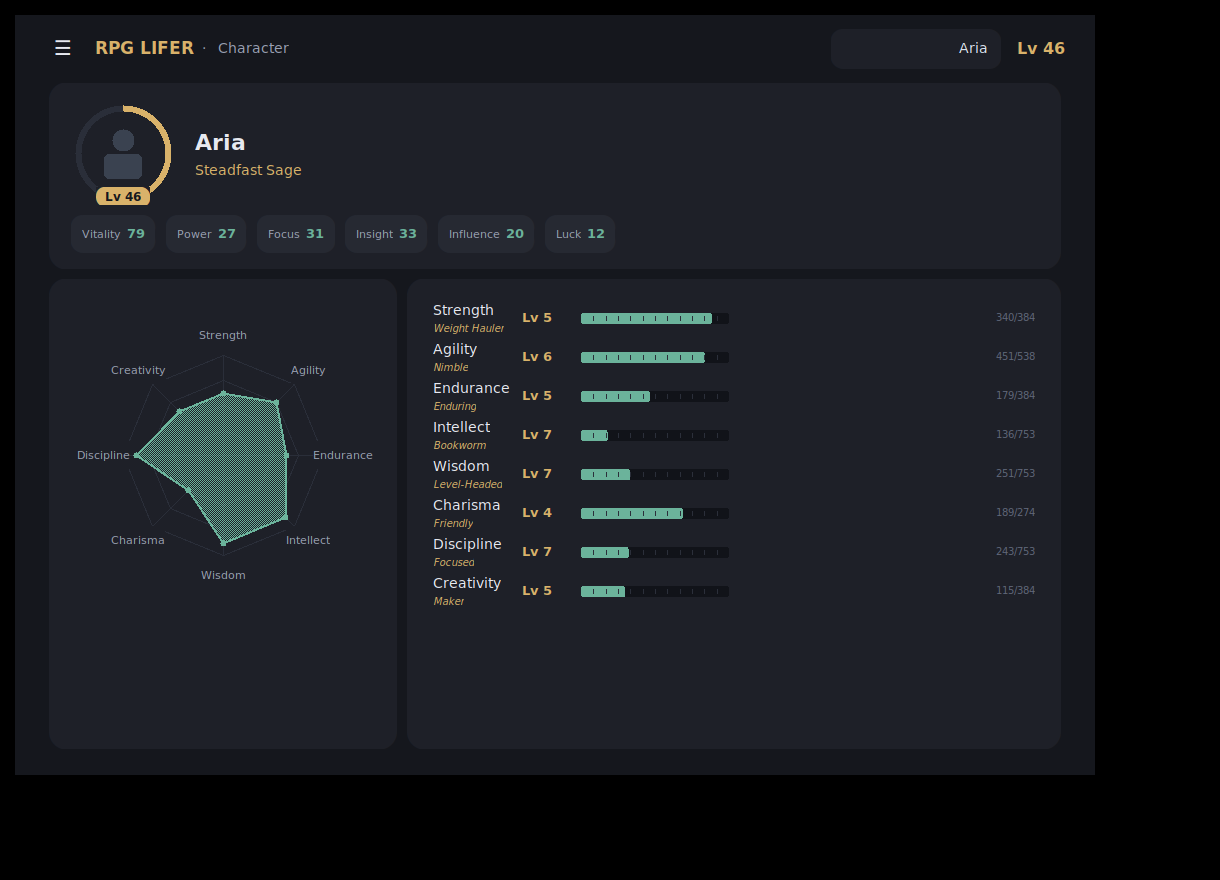
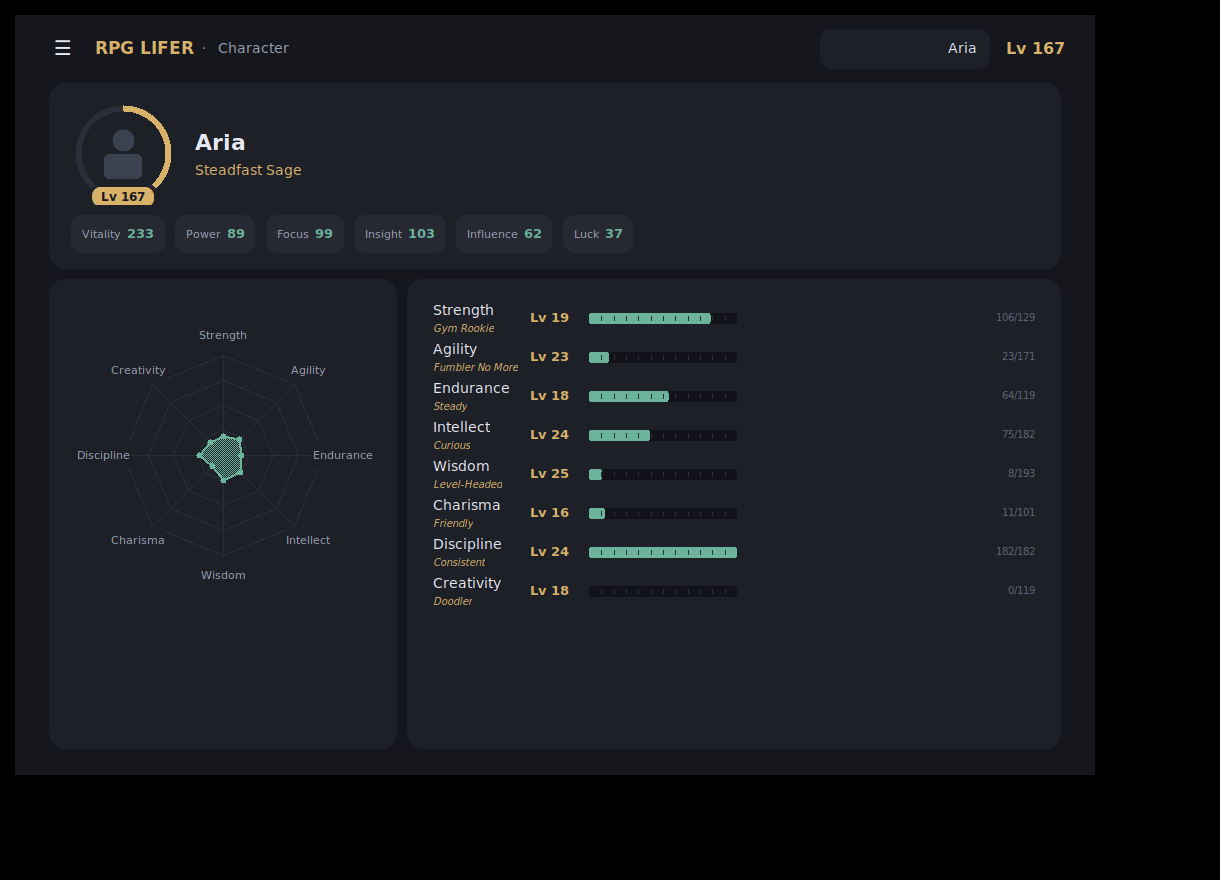
Iteration 6: retention-first 1–100 mastery curve (front-loaded progress)
Replace the open-ended exponential curve (where level 100 was ~1.7 trillion
years and the bar barely moved) with a capped, front-loaded 0–100 mastery curve:

    level = 100 * (xp / XP_TO_MAX) ** 0.40   (clamped to 100)

- Fast, visible early progress: at 30 min/day of one stat you hit ~6 on day one,
  ~13 in a week, ~26 in a month, ~58 by 6 months, ~78 in a year; 100 is a real
  multi-year goal for a single focused pursuit. XP_TO_MAX is the one knob for
  how long mastery takes (default ~500 h at 2 XP/min).
- Two-tier progression: stats are 0–100 mastery bars; the overall level is their
  sum (0–800) and climbs with EVERY activity, so a number is always going up.
- Radar now normalizes to 100, so the character web visibly fills toward mastery.
- Titles re-spaced to the 0–100 scale (10/25/40/55/75/100): first rank in week
  one, top rank at mastery.
- New characters start at level 0 (a blank-slate hero) rather than 1.

Tests updated for the new curve/titles/zero-start; 71 passing. README pacing
section rewritten with the real 30-min/day progression table. Frozen build
re-validated.

Claude-Session: https://claude.ai/code/session_01WsnuZ536J4UZdP5AajkuAF

diff --git a/rpglifer/leveling.py b/rpglifer/leveling.py
@@ -1,74 +1,78 @@
-"""XP-and-level math.
+"""XP-and-level math — a capped 1–100 mastery curve.
 
-Every stat accumulates experience points (XP). A stat's *level* is derived
-purely from its total XP through a growth curve: early levels come quickly and
-each successive level costs a little more — the classic RPG feel.
+Each stat runs from 0 to 100, where 100 is mastery. The curve is deliberately
+**front-loaded**: your first session is worth several levels and the bar moves
+every time you log, then the climb slows as you approach mastery. That keeps
+progress visible (the retention that an ever-slowing exponential kills) while
+still making 100 a real, multi-month-to-year goal for a single focused stat.
 
-Everything here is a pure function of the inputs (no hidden state), so it is
-easy to test and safe to call from anywhere.
+    level(xp) = 100 * (xp / XP_TO_MAX) ** EXPONENT      (clamped to 100)
+
+``EXPONENT < 1`` makes the curve concave — fast early, long tail. ``XP_TO_MAX``
+is the only knob for "how much total effort is mastery"; with the default
+2 XP/minute that is ~500 hours of a weight-1.0 activity.
+
+Stats cap at 100, but the character's *overall* level (the sum of all eight,
+0–800) has no practical ceiling, so there is always a number going up.
 """
 
 from __future__ import annotations
 
 from dataclasses import dataclass
 
-# --- Curve tuning ----------------------------------------------------------
-# BASE_XP is the cost of the very first level-up (level 1 -> 2). Each further
-# level costs GROWTH times the one before it. Bump BASE_XP up to make the whole
-# game slower; raise GROWTH to make high levels grind harder.
-#
-# Pacing goal: leveling a single stat should take *multiple weeks* of genuine
-# dedication, not a week. With the default 2 XP/minute (see activities.py), the
-# cumulative cost to reach a stat level is roughly:
-#     Lv 3  ~= 240 XP   (~2 hours of the activity)   — a first title, early on
-#     Lv 5  ~= 710 XP   (~6 hours)                    — a couple of weeks
-#     Lv 10 ~= 4,900 XP (~41 hours)                   — a couple of months
-#     Lv 20 ~= 149,000 XP                             — a long-haul grind
-# The first level-up stays quick (100 XP ~ 50 min) so day one still feels good.
-BASE_XP = 100
-GROWTH = 1.4
-# Hard ceiling so a corrupted save can never spin the loop forever.
-MAX_LEVEL = 999
+MAX_LEVEL = 100
+# Total XP (for a weight-1.0 activity) to reach level 100. At 2 XP/min that is
+# ~500 hours of focused practice. Raise it to make mastery slower, lower to make
+# it faster — nothing else needs to change.
+XP_TO_MAX = 60_000
+# Curve shape. Smaller = more front-loaded (faster early levels, longer tail).
+EXPONENT = 0.40
+
+
+def _cum_xp(level: int) -> float:
+    """Total XP required to reach an integer ``level`` (0..MAX_LEVEL)."""
+    if level <= 0:
+        return 0.0
+    if level >= MAX_LEVEL:
+        return float(XP_TO_MAX)
+    return XP_TO_MAX * (level / MAX_LEVEL) ** (1.0 / EXPONENT)
 
 
 def xp_to_advance(level: int) -> int:
-    """XP required to advance *from* ``level`` to ``level + 1`` (``level >= 1``)."""
-    if level < 1:
-        raise ValueError("level must be >= 1")
-    return int(round(BASE_XP * (GROWTH ** (level - 1))))
+    """XP required to go from ``level`` to ``level + 1`` (0 at the cap)."""
+    if level < 0:
+        raise ValueError("level must be >= 0")
+    if level >= MAX_LEVEL:
+        return 0
+    return int(round(_cum_xp(level + 1) - _cum_xp(level)))
 
 
 @dataclass(frozen=True)
 class LevelProgress:
-    """A snapshot of where a given XP total lands on the curve."""
-
     level: int
-    xp_into_level: int  # XP earned toward the next level
-    xp_for_level: int  # total XP the current level costs
+    xp_into_level: int
+    xp_for_level: int
     total_xp: int
 
     @property
     def fraction(self) -> float:
-        """Progress through the current level in the range ``[0.0, 1.0]``."""
         if self.xp_for_level <= 0:
-            return 0.0
+            return 1.0 if self.level >= MAX_LEVEL else 0.0
         return max(0.0, min(1.0, self.xp_into_level / self.xp_for_level))
 
 
 def level_for_xp(total_xp: float) -> LevelProgress:
-    """Resolve a total XP amount into a level and progress toward the next one."""
+    """Resolve total XP into a 0–100 level and progress toward the next one."""
     total = int(max(0, round(total_xp)))
-    remaining = total
-    level = 1
-    while level < MAX_LEVEL:
-        need = xp_to_advance(level)
-        if remaining < need:
-            return LevelProgress(level, remaining, need, total)
-        remaining -= need
-        level += 1
-    return LevelProgress(MAX_LEVEL, 0, xp_to_advance(MAX_LEVEL), total)
+    if total >= XP_TO_MAX:
+        return LevelProgress(MAX_LEVEL, 1, 1, total)  # maxed: show a full bar
+    level = int(MAX_LEVEL * (total / XP_TO_MAX) ** EXPONENT)
+    level = max(0, min(level, MAX_LEVEL - 1))
+    lo = _cum_xp(level)
+    hi = _cum_xp(level + 1)
+    return LevelProgress(level, int(round(total - lo)),
+                         max(1, int(round(hi - lo))), total)
 
 
 def level_of(total_xp: float) -> int:
-    """Convenience: just the integer level for a total XP amount."""
     return level_for_xp(total_xp).level

diff --git a/rpglifer/titles.py b/rpglifer/titles.py
@@ -12,24 +12,25 @@ week or two; later rungs are spaced out to reward the long haul.
 
 from __future__ import annotations
 
-# stat key -> ascending ladder of (level, title). Keep each ladder sorted.
+# stat key -> ascending ladder of (level, title) on the 0–100 scale. The first
+# rung (10) lands in the first week; the last (100) is mastery. Keep sorted.
 TITLES: dict[str, tuple[tuple[int, str], ...]] = {
-    "STR": ((3, "Gym Rookie"), (5, "Weight Hauler"), (10, "Iron-Willed"),
-            (15, "Powerhouse"), (20, "Titan"), (30, "Colossus")),
-    "DEX": ((3, "Fumbler No More"), (5, "Nimble"), (10, "Quick-Handed"),
-            (15, "Acrobat"), (20, "Blur"), (30, "Untouchable")),
-    "CON": ((3, "Steady"), (5, "Enduring"), (10, "Tireless"),
-            (15, "Ironclad"), (20, "Unbreakable"), (30, "Immortal")),
-    "INT": ((3, "Curious"), (5, "Bookworm"), (10, "Scholar"),
-            (15, "Sage"), (20, "Genius"), (30, "Polymath")),
-    "WIS": ((3, "Reflective"), (5, "Level-Headed"), (10, "Insightful"),
-            (15, "Enlightened"), (20, "Guru"), (30, "Oracle")),
-    "CHA": ((3, "Friendly"), (5, "Well-Liked"), (10, "Charmer"),
-            (15, "Silver-Tongued"), (20, "Magnetic"), (30, "Legendary Presence")),
-    "DIS": ((3, "Consistent"), (5, "Focused"), (10, "Iron Habit"),
-            (15, "Unwavering"), (20, "Unstoppable"), (30, "Relentless")),
-    "CRE": ((3, "Doodler"), (5, "Maker"), (10, "Artisan"),
-            (15, "Visionary"), (20, "Virtuoso"), (30, "Muse")),
+    "STR": ((10, "Gym Rookie"), (25, "Weight Hauler"), (40, "Iron-Willed"),
+            (55, "Powerhouse"), (75, "Titan"), (100, "Colossus")),
+    "DEX": ((10, "Fumbler No More"), (25, "Nimble"), (40, "Quick-Handed"),
+            (55, "Acrobat"), (75, "Blur"), (100, "Untouchable")),
+    "CON": ((10, "Steady"), (25, "Enduring"), (40, "Tireless"),
+            (55, "Ironclad"), (75, "Unbreakable"), (100, "Immortal")),
+    "INT": ((10, "Curious"), (25, "Bookworm"), (40, "Scholar"),
+            (55, "Sage"), (75, "Genius"), (100, "Polymath")),
+    "WIS": ((10, "Reflective"), (25, "Level-Headed"), (40, "Insightful"),
+            (55, "Enlightened"), (75, "Guru"), (100, "Oracle")),
+    "CHA": ((10, "Friendly"), (25, "Well-Liked"), (40, "Charmer"),
+            (55, "Silver-Tongued"), (75, "Magnetic"), (100, "Legendary Presence")),
+    "DIS": ((10, "Consistent"), (25, "Focused"), (40, "Iron Habit"),
+            (55, "Unwavering"), (75, "Unstoppable"), (100, "Relentless")),
+    "CRE": ((10, "Doodler"), (25, "Maker"), (40, "Artisan"),
+            (55, "Visionary"), (75, "Virtuoso"), (100, "Muse")),
 }
 
 

diff --git a/tests/test_leveling.py b/tests/test_leveling.py
@@ -1,54 +1,56 @@
+import pytest
+
 from rpglifer import leveling
 
 
-def test_first_level_costs_base_xp():
-    assert leveling.xp_to_advance(1) == leveling.BASE_XP
-
-
-def test_costs_grow_each_level():
-    costs = [leveling.xp_to_advance(lvl) for lvl in range(1, 10)]
-    assert costs == sorted(costs)
-    assert costs[1] > costs[0]
-
-
-def test_zero_xp_is_level_one():
+def test_zero_xp_is_level_zero():
     p = leveling.level_for_xp(0)
-    assert p.level == 1
-    assert p.xp_into_level == 0
+    assert p.level == 0
     assert p.fraction == 0.0
 
 
-def test_just_below_threshold_stays_level_one():
-    p = leveling.level_for_xp(leveling.BASE_XP - 1)
-    assert p.level == 1
-    assert p.xp_into_level == leveling.BASE_XP - 1
+def test_curve_is_front_loaded_early():
+    # A single ~30-minute session (60 XP) should already grant several levels.
+    assert leveling.level_of(60) >= 4
 
 
-def test_exactly_threshold_reaches_level_two():
-    p = leveling.level_for_xp(leveling.BASE_XP)
-    assert p.level == 2
-    assert p.xp_into_level == 0
+def test_level_caps_at_100():
+    assert leveling.level_of(leveling.XP_TO_MAX) == 100
+    assert leveling.level_of(leveling.XP_TO_MAX * 5) == 100
 
 
-def test_fraction_is_bounded():
-    for xp in (0, 50, 100, 250, 1000, 100000):
-        assert 0.0 <= leveling.level_for_xp(xp).fraction <= 1.0
+def test_maxed_bar_is_full():
+    p = leveling.level_for_xp(leveling.XP_TO_MAX)
+    assert p.level == 100
+    assert p.fraction == 1.0
 
 
 def test_level_is_monotonic_in_xp():
-    last = 0
-    for xp in range(0, 20000, 137):
+    last = -1
+    for xp in range(0, leveling.XP_TO_MAX, 250):
         lvl = leveling.level_of(xp)
         assert lvl >= last
         last = lvl
 
 
-def test_negative_xp_clamps_to_level_one():
-    assert leveling.level_of(-500) == 1
+def test_costs_grow_with_level():
+    # Advancing costs more XP the higher you are (long tail).
+    assert leveling.xp_to_advance(80) > leveling.xp_to_advance(20) > leveling.xp_to_advance(2)
 
 
-def test_advance_rejects_bad_level():
-    import pytest
+def test_fraction_is_bounded():
+    for xp in (0, 50, 500, 5000, 60000, 500000):
+        assert 0.0 <= leveling.level_for_xp(xp).fraction <= 1.0
 
+
+def test_negative_xp_clamps_to_zero():
+    assert leveling.level_of(-500) == 0
+
+
+def test_advance_at_cap_is_zero():
+    assert leveling.xp_to_advance(100) == 0
+
+
+def test_advance_rejects_negative_level():
     with pytest.raises(ValueError):
-        leveling.xp_to_advance(0)
+        leveling.xp_to_advance(-1)

diff --git a/tests/test_titles.py b/tests/test_titles.py
@@ -15,22 +15,23 @@ def test_ladders_are_sorted_ascending():
 
 def test_no_title_below_first_milestone():
     assert title_for("STR", 1) is None
-    assert title_for("STR", 2) is None
+    assert title_for("STR", 9) is None
 
 
 def test_title_at_and_above_milestone():
-    assert title_for("STR", 3) == "Gym Rookie"
-    assert title_for("STR", 4) == "Gym Rookie"  # holds until the next rung
-    assert title_for("STR", 5) == "Weight Hauler"
+    assert title_for("STR", 10) == "Gym Rookie"
+    assert title_for("STR", 24) == "Gym Rookie"  # holds until the next rung
+    assert title_for("STR", 25) == "Weight Hauler"
 
 
 def test_title_caps_at_top_rung():
+    assert title_for("STR", 100) == "Colossus"
     assert title_for("STR", 999) == "Colossus"
 
 
 def test_next_title_points_forward():
-    assert next_title("INT", 1) == (3, "Curious")
-    assert next_title("INT", 3) == (5, "Bookworm")
+    assert next_title("INT", 1) == (10, "Curious")
+    assert next_title("INT", 10) == (25, "Bookworm")
 
 
 def test_next_title_none_when_maxed():

diff --git a/tests/test_progression.py b/tests/test_progression.py
@@ -88,9 +88,9 @@ def test_consistency_preview_matches_logging():
 
 def test_reaching_a_milestone_unlocks_a_title():
     c = Character()
-    # 120 min of Studying (INT 1.0 @ 2 xp/min) = 240 XP = exactly level 3.
-    result = c.log_activity(activity_by_name("Studying"), 120)
-    assert c.level("INT") == 3
+    # 200 min of Studying (INT 1.0 @ 2 xp/min) = 400 XP -> past level 10.
+    result = c.log_activity(activity_by_name("Studying"), 200)
+    assert c.level("INT") >= 10
     assert any(t.stat == "INT" and t.title == "Curious" for t in result.titles)
     assert c.title("INT") == "Curious"
 

diff --git a/tests/test_character.py b/tests/test_character.py
@@ -10,12 +10,12 @@ def test_new_character_starts_at_zero_xp():
     assert c.total_xp() == 0
     for key in STAT_KEYS:
         assert c.stat_xp[key] == 0.0
-        assert c.level(key) == 1
+        assert c.level(key) == 0  # untrained stats start at 0 on the 0–100 scale
 
 
 def test_overall_level_is_sum_of_stat_levels():
     c = Character()
-    assert c.overall_level() == len(STAT_KEYS)  # every stat at level 1
+    assert c.overall_level() == 0  # a blank-slate hero
 
 
 def test_logging_awards_xp_by_weight():

diff --git a/rpglifer/ui_tk.py b/rpglifer/ui_tk.py
@@ -180,7 +180,7 @@ class RadarChart:
     def render(self):
         c = self.canvas
         c.delete("web")
-        cap = max(8.0, max(self.disp.values()) if self.disp else 8.0)
+        cap = 100.0  # stats are on a 0–100 mastery scale; the web fills toward it
         # concentric grid octagons
         for ring in (0.25, 0.5, 0.75, 1.0):
             pts = []

diff --git a/README.md b/README.md
@@ -89,7 +89,7 @@ for its soft, rounded, modern look; it's the only runtime dependency (Tkinter
 itself ships with the official python.org installers). The `--cli` mode needs
 nothing but the standard library.
 
-## How XP works
+## How XP and leveling work
 
 Logging `minutes` of an activity grants `minutes × xp_per_minute` of base XP
 (default **2**/min), divided among the activity's stats by their weights, then
@@ -98,18 +98,26 @@ scaled by your current consistency bonus. For example **Reading** is
 **48 INT** and **12 WIS** — plus a streak bonus if you've been reading week
 after week.
 
-Each stat's level is derived purely from its total XP, so the numbers can never
-drift out of sync with your log. The first level-up costs 100 XP and each one
-after costs 40% more than the last. That curve is deliberately slow:
+Each stat runs on a **0–100 mastery scale** with a deliberately **front-loaded**
+curve — `level = 100 × (xp / XP_TO_MAX)^0.4` — so your first session is worth
+several levels and the bar moves every time you log, then the climb slows toward
+mastery. Real numbers for one stat trained **30 minutes a day**:
 
-| Stat level | ~Total XP | ~Hours of the activity |
-| ---------: | --------: | ---------------------: |
-|          3 |       240 |   ~2 h (a first title) |
-|          5 |       710 |                  ~6 h  |
-|         10 |     4,900 |    ~41 h (weeks of it) |
-|         20 |   149,000 |     a long-haul grind  |
+| Time in        | Stat level | Overall level* |
+| -------------- | ---------: | -------------: |
+| day 1          |          6 |              9 |
+| week 1         |         13 |             21 |
+| 1 month        |         26 |             41 |
+| 3 months       |         43 |             68 |
+| 6 months       |         58 |             91 |
+| 1 year         |         78 |            122 |
 
-No level-10-by-Friday. Building a real character is meant to take real time.
+\*Your **overall level** is the sum of all eight stats (0–800), so it climbs
+with *every* activity even once a single stat slows near the top — there is
+always a number going up. Hitting **100** in a stat is a real, multi-year goal
+for a single focused pursuit; `XP_TO_MAX` in
+[`rpglifer/leveling.py`](rpglifer/leveling.py) is the one knob that makes
+mastery faster or slower.
 
 ### Consistency streaks
 
@@ -122,9 +130,9 @@ marks streak-boosted entries with 🔥.
 ### Titles
 
 Reaching a milestone level in a stat unlocks a title — the highest one you've
-reached is shown under the stat. Every stat has its own ladder (roughly levels
-3 / 5 / 10 / 15 / 20 / 30), so there's always a next rank to chase. See
-[`rpglifer/titles.py`](rpglifer/titles.py) to tune them.
+reached is shown under the stat. Every stat has its own ladder (levels
+10 / 25 / 40 / 55 / 75 / 100), so the first rank lands in week one and the last
+is mastery. See [`rpglifer/titles.py`](rpglifer/titles.py) to tune them.
 
 ## Add your own activities
 
